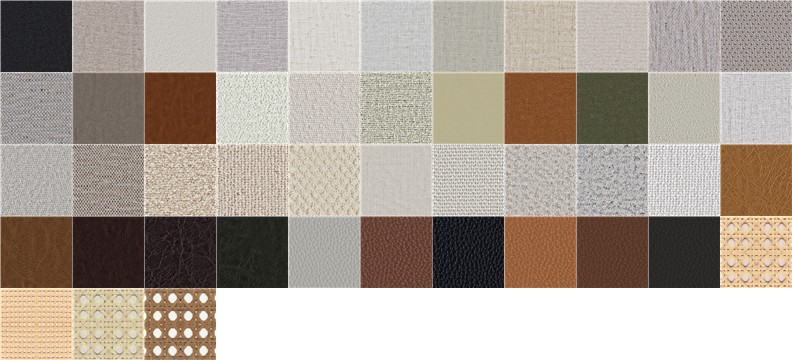
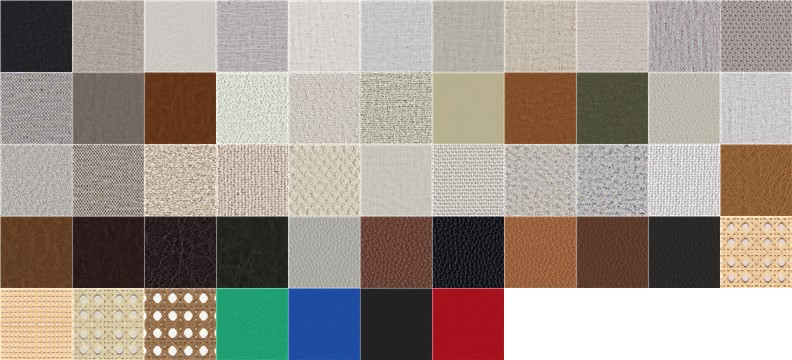
Add files via upload

Changed region(s): [[0.2727, 0.7944, 0.6364, 1.0]]

diff --git a/vnd/catalogo.js b/vnd/catalogo.js
@@ -7,7 +7,7 @@ const sem = (s) => s.normalize('NFD').replace(/[\u0300-\u036f]/g, '').toLowerCas
 const SOLETA = ['Caramelo', 'Café', 'Preto'];
 const ehCouro = k => SOLETA.includes(k) || /^(La Paz|Dollaro)/.test(k), ehTela = k => /^(Sintética|Natural) /.test(k);
 export const VND = {
-  pasta: 'vnd',
+  pasta: 'vnd', sem,
   selTecido: 'Escolha o tecido (VND):', selCouro: 'Escolha o couro (VND):',
   cod: v => SOLETA.includes(v) ? 'soleta-' + sem(v) : ehCouro(v) ? 'couro-' + sem(v) : ehTela(v) ? 'tela-' + sem(v) : sem(v),
   tipo: k => ehCouro(k) ? 'couroFosco' : ehTela(k) ? 'medio' : /^(Luna|Liz|Mavie)/.test(k) ? 'boucle' : 'linhoKF',
@@ -22,11 +22,23 @@ export const VND = {
   ],
   // camas com cabeceira em tela: as telas entram na lista de tecidos, nas linhas do anúncio (texturas em vnd/tecidos/tela-*.jpg)
   linhasTela: [['Tela sintética', lista('Sintética sextavada creme|Sintética quadriculada creme')], ['Tela natural', lista('Natural Vanilla|Natural Cappuccino')]],
-  mini: { arquivo: 'vnd/tecidos-mini.jpg', colunas: 11, linhas: 5, ordem: 'rita,cibele,jade,karina,anita,paula,angelica,aurora,sophia,charlotte,maressa,ketlen,liete,lidy,martina,luna,liz,mavie,elisa,tassia,zoe,cloe,alice,angela,yara,zaira,soraya,valdete,duquesa,yasmin,cora,luana,couro-la-paz-mel,couro-la-paz-camel,couro-la-paz-pinhao,couro-la-paz-cafe,couro-la-paz-esmeralda,couro-dollaro-off-white,couro-dollaro-kastanhe,couro-dollaro-preto,soleta-caramelo,soleta-cafe,soleta-preto,tela-sintetica-sextavada-creme,tela-sintetica-quadriculada-creme,tela-natural-vanilla,tela-natural-cappuccino'.split(',') },
+  mini: { arquivo: 'vnd/tecidos-mini.jpg', colunas: 11, linhas: 5, ordem: 'rita,cibele,jade,karina,anita,paula,angelica,aurora,sophia,charlotte,maressa,ketlen,liete,lidy,martina,luna,liz,mavie,elisa,tassia,zoe,cloe,alice,angela,yara,zaira,soraya,valdete,duquesa,yasmin,cora,luana,couro-la-paz-mel,couro-la-paz-camel,couro-la-paz-pinhao,couro-la-paz-cafe,couro-la-paz-esmeralda,couro-dollaro-off-white,couro-dollaro-kastanhe,couro-dollaro-preto,soleta-caramelo,soleta-cafe,soleta-preto,tela-sintetica-sextavada-creme,tela-sintetica-quadriculada-creme,tela-natural-vanilla,tela-natural-cappuccino,feltro-verde,feltro-azul,feltro-preto,feltro-vermelho'.split(',') },
   // madeira: [nome igual à opção do site, cor da bolinha, textura]. Cada produto lista as suas em "madeiras"
   // (jequitibá: In natura, Nogueira, Castanho, Envelhecido, Ebanizado; madeira: Natural, Nogueira, Castanho, Ebanizado).
-  madeiras: [['Natural', '#AE7C42', 'natural.jpg'], ['In natura', '#A98070', 'in-natura.jpg'], ['Nogueira', '#B07845', 'nogueira.jpg'], ['Castanho', '#805D4A', 'castanho.jpg'], ['Envelhecido', '#6B3F22', 'envelhecido.jpg'], ['Ebanizado', '#252329', 'ebanizado.jpg']],
+  madeiras: [['Natural', '#AE7C42', 'natural.jpg'], ['In natura', '#A98070', 'in-natura.jpg'], ['Nogueira', '#B07845', 'nogueira.jpg'], ['Castanho', '#805D4A', 'castanho.jpg'], ['Envelhecido', '#6B3F22', 'envelhecido.jpg'], ['Ebanizado', '#252329', 'ebanizado.jpg'],
+    // móveis em lâmina: madeira + cor (4º item: de qual madeira é e o valor da opção no site). Produto escolhe as madeiras em "laminas"
+    ...[['In natura', '#A98070', 'in-natura'], ['Nogueira', '#B07845', 'nogueira'], ['Castanho', '#805D4A', 'castanho'], ['Envelhecido', '#6B3F22', 'envelhecido'], ['Ebanizado', '#252329', 'ebanizado']].map(([v, c, a]) => ['Jequitibá ' + v, c, a + '.jpg', { esp: 'jequitiba', valor: v }]),
+    ...['cinamomo', 'carvalho'].flatMap(e => [['Natural', '#AC7A3F', 'natural'], ['Nogueira', '#AF7643', 'nogueira'], ['Castanho', '#7F5C48', 'castanho'], ['Envelhecido', '#6A3E21', 'envelhecido'], ['Ebanizado', '#252328', 'ebanizado']].map(([v, c, a]) => [(e === 'cinamomo' ? 'Cinamomo ' : 'Carvalho ') + v, c, e + '-' + a + '.jpg', { esp: e, valor: v }])),
+    ...[['Branca', '#F4F3F0', 'branca'], ['Off-white', '#E5E2DB', 'off-white'], ['Fendi', '#C0B4A4', 'fendi'], ['Preta', '#272725', 'preta'], ['Cinza', '#BFBEBC', 'cinza'], ['Bege', '#D8CCBE', 'bege']].map(([v, c, a]) => ['Laca ' + v, c, 'laca-' + a + '.jpg', { esp: 'laca', valor: v }])],
+  // cartão (linha) e personalização de cada madeira no site
+  especies: {
+    jequitiba: { linha: 'Lâmina de jequitibá', sel: 'Escolha a cor da lâmina de jequitibá (VND):' },
+    cinamomo: { linha: 'Lâmina de cinamomo', sel: 'Escolha a cor da lâmina de cinamomo (VND):' },
+    carvalho: { linha: 'Lâmina de carvalho', sel: 'Escolha a cor da lâmina de carvalho (VND):' },
+    laca: { linha: 'Laca', sel: 'Escolha a laca (VND):' }
+  },
   // tela: [nome igual à opção do site, textura]
   telas: [['Sintética sextavada creme', 'sintetica-sextavada-creme.jpg'], ['Sintética quadriculada creme', 'sintetica-quadriculada-creme.jpg'], ['Natural Vanilla', 'natural-vanilla.jpg'], ['Natural Cappuccino', 'natural-cappuccino.jpg']],
-  metais: []
+  // metal: [nome igual à opção de "Escolha a cor do metal (VND):", cor]
+  metais: [['Preto', '#232323'], ['Dourado', '#B08D4C'], ['Champagne', '#C7B08A'], ['Pérola', '#D9D3C6']]
 };
